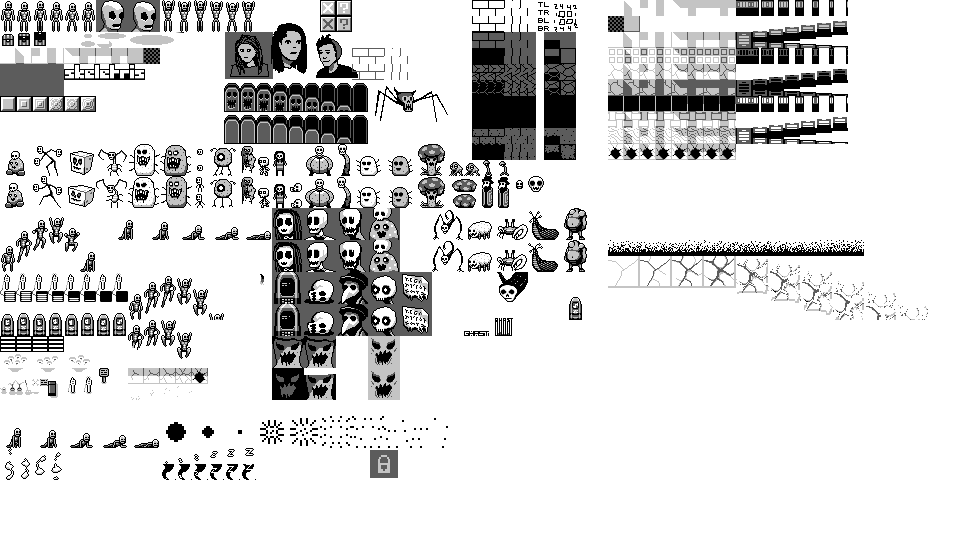
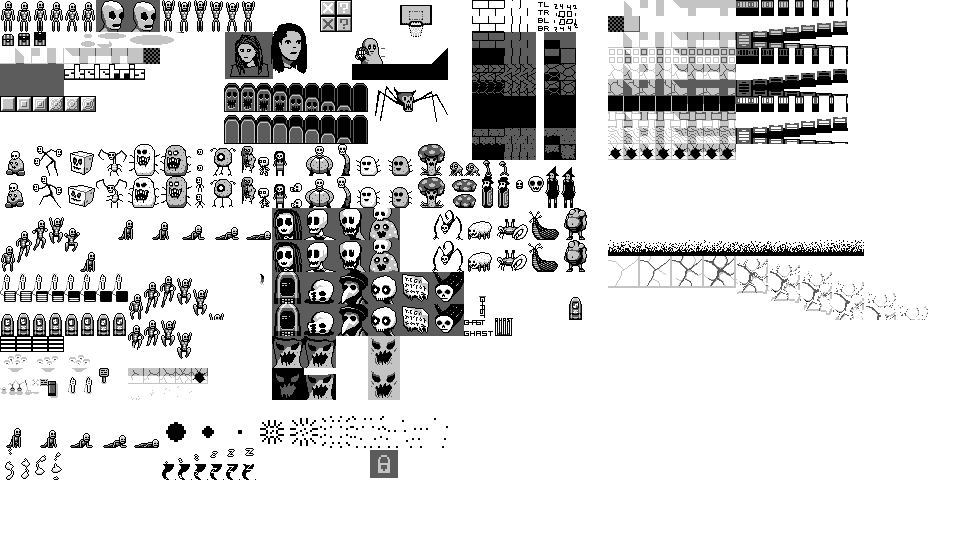
added witch enemy

diff --git a/src/game/enemies.py b/src/game/enemies.py
@@ -284,6 +284,34 @@ class SlugTemplate(EnemyTemplate):
         })
 
 
+class WitchTemplate(EnemyTemplate):
+
+    def __init__(self):
+        EnemyTemplate.__init__(self, "Witch")
+
+    def get_sprites(self):
+        return spriteref.enemy_witch_all
+
+    def get_shadow_sprite(self):
+        return spriteref.medium_shadow
+
+    def get_map_identifier(self):
+        return ("W", colors.RED)
+
+    def get_level_range(self):
+        return range(12, 16)
+
+    def get_base_stats(self):
+        return stats.BasicStatLookup({
+            StatTypes.VIT: 15,
+            StatTypes.SPEED: 4,
+            StatTypes.ATT: 3,
+            StatTypes.DEF: 5,
+            StatTypes.INTELLIGENCE: 5,
+            StatTypes.WEALTH: 3
+        })
+
+
 class GiantTemplate(EnemyTemplate):
 
     def __init__(self):
@@ -644,6 +672,7 @@ TEMPLATE_SPORE = SporeTemplate()
 TEMPLATE_SLUG = SlugTemplate()
 TEMPLATE_GIANT = GiantTemplate()
 TEMPLATE_CRAB = CrabTemplate()
+TEMPLATE_WITCH = WitchTemplate()
 
 # bosses
 TEMPLATE_FROG = FrogBossTemplate()
@@ -664,7 +693,8 @@ RAND_SPAWN_TEMPLATES = [TEMPLATE_MUNCHER_SMALL,
                         TEMPLATE_SMALL_FROG,
                         TEMPLATE_SCORPION,
                         TEMPLATE_GHAST,
-                        TEMPLATE_GIANT]
+                        TEMPLATE_GIANT,
+                        TEMPLATE_WITCH]
 
 
 def get_rand_template_for_level(level, rand_val):

diff --git a/src/game/spriteref.py b/src/game/spriteref.py
@@ -375,6 +375,7 @@ enemy_spore_all = [make(480 + i * 16, 160, 16, 16) for i in range(0, 2)]
 enemy_slug_all = [make(528, 208 + i * 32, 32, 32) for i in range(0, 2)]
 enemy_giant_all = [make(560, 208 + i * 32, 32, 32) for i in range(0, 2)]
 enemy_crab_all = [make(496, 208 + i * 32, 32, 32) for i in range(0, 2)]
+enemy_witch_all = [make(544 + i * 16, 160, 16, 48) for i in range(0, 2)]
 
 floaty_guys = [make(192, 144 + i * 16, 16, 16) for i in range(0, 2)]
 
